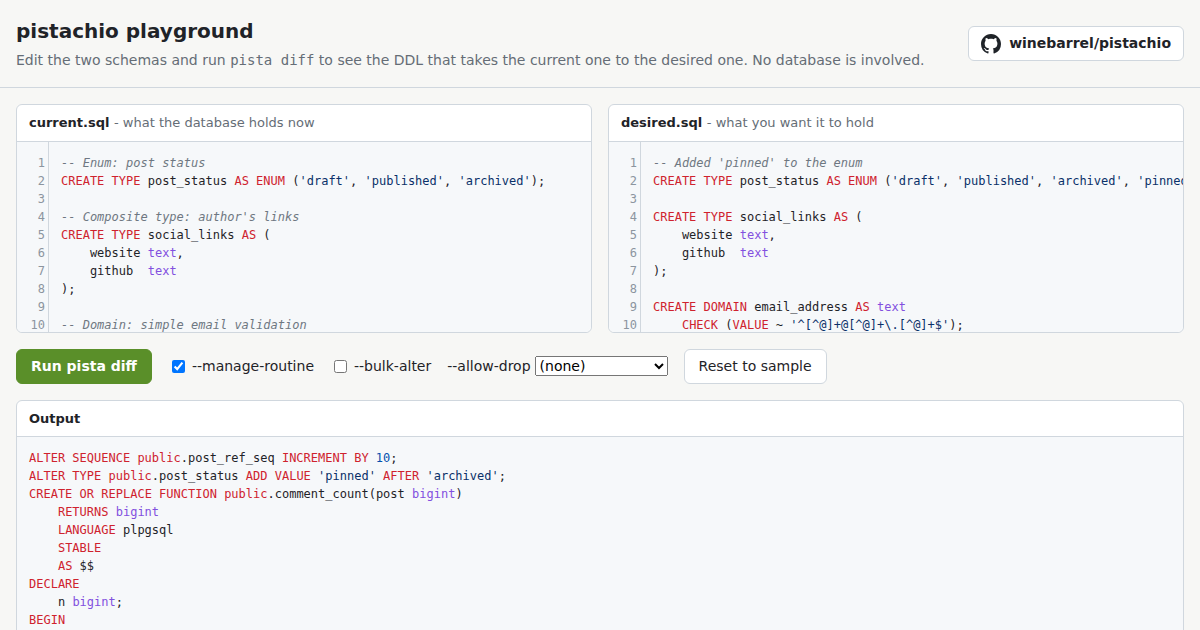
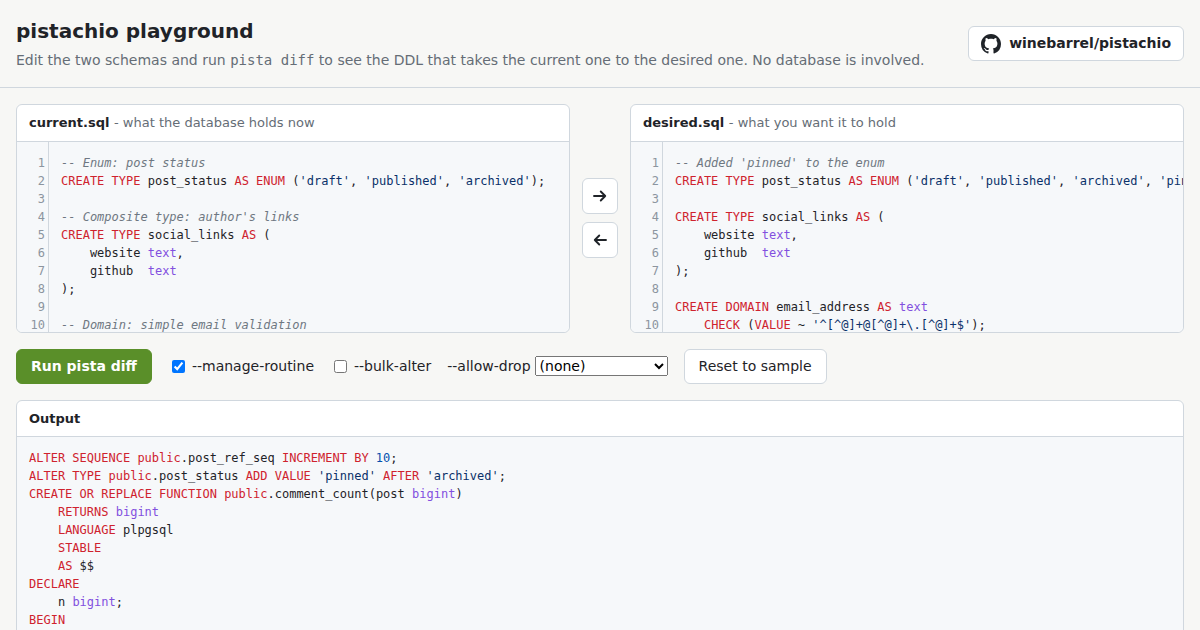
Copy between the editors with arrow buttons
Two buttons between current.sql and desired.sql copy one into the other
and run the diff. Copying desired into current stands in for applying it.
On a narrow screen the editors stack and the arrows point down and up.
The copy is a normal editor change, so undo brings the old text back.

og.png is recaptured with the buttons, and og:image gains ?v=2 so that
services that cached the first image fetch the new one.

Claude-Session: https://claude.ai/code/session_01FbaxSWppEtBMYJnYohKL1Y

Changed region(s): [[0.4933, 0.2413, 0.9867, 0.5429], [0.4933, 0.181, 0.74, 0.2111]]

diff --git a/public/index.html b/public/index.html
@@ -10,7 +10,7 @@
 <meta property="og:title" content="pistachio playground">
 <meta property="og:description" content="Edit two PostgreSQL schemas and see the DDL pista diff generates. Nothing to install, no database needed.">
 <meta property="og:url" content="https://pistachio-demo.winebarrel.workers.dev/">
-<meta property="og:image" content="https://pistachio-demo.winebarrel.workers.dev/og.png">
+<meta property="og:image" content="https://pistachio-demo.winebarrel.workers.dev/og.png?v=2">
 <meta property="og:image:width" content="1200">
 <meta property="og:image:height" content="630">
 <meta property="og:image:alt" content="The pistachio playground: two schema editors and the DDL pista diff generates">
@@ -100,11 +100,30 @@
   main { padding: 16px; display: grid; gap: 16px; }
   .editors {
     display: grid;
-    grid-template-columns: 1fr 1fr;
-    gap: 16px;
+    grid-template-columns: minmax(0, 1fr) auto minmax(0, 1fr);
+    gap: 12px;
   }
+  .copy {
+    display: flex;
+    flex-direction: column;
+    justify-content: center;
+    gap: 8px;
+  }
+  .copy button {
+    display: inline-flex;
+    align-items: center;
+    justify-content: center;
+    width: 36px;
+    height: 36px;
+    padding: 0;
+  }
+  .copy button:hover { border-color: var(--accent); color: var(--accent); }
+  .copy svg { width: 18px; height: 18px; }
   @media (max-width: 800px) {
-    .editors { grid-template-columns: 1fr; }
+    .editors { grid-template-columns: minmax(0, 1fr); }
+    /* Stacked editors: current above desired, so the arrows point down/up. */
+    .copy { flex-direction: row; }
+    .copy svg { transform: rotate(90deg); }
   }
   .panel {
     display: flex;
@@ -220,6 +239,10 @@
       <h2>current.sql <span>- what the database holds now</span></h2>
       <textarea id="current" spellcheck="false" autocapitalize="off" autocomplete="off"></textarea>
     </section>
+    <div class="copy">
+      <button id="copy-to-desired" title="Copy current.sql to desired.sql" aria-label="Copy current.sql to desired.sql"><svg viewBox="0 0 24 24" aria-hidden="true" fill="none" stroke="currentColor" stroke-width="2.5" stroke-linecap="round" stroke-linejoin="round"><path d="M4 12h15M13 6l6 6-6 6"/></svg></button>
+      <button id="copy-to-current" title="Copy desired.sql to current.sql, as if the diff had been applied" aria-label="Copy desired.sql to current.sql"><svg viewBox="0 0 24 24" aria-hidden="true" fill="none" stroke="currentColor" stroke-width="2.5" stroke-linecap="round" stroke-linejoin="round"><path d="M20 12H5M11 6l-6 6 6 6"/></svg></button>
+    </div>
     <section class="panel">
       <h2>desired.sql <span>- what you want it to hold</span></h2>
       <textarea id="desired" spellcheck="false" autocapitalize="off" autocomplete="off"></textarea>
@@ -338,6 +361,15 @@
   }
 
   runButton.addEventListener("click", run);
+  // Copying desired into current stands in for applying the diff.
+  $("copy-to-desired").addEventListener("click", () => {
+    desired.setValue(current.getValue());
+    run();
+  });
+  $("copy-to-current").addEventListener("click", () => {
+    current.setValue(desired.getValue());
+    run();
+  });
   $("reset").addEventListener("click", async () => {
     await loadSample();
     run();
